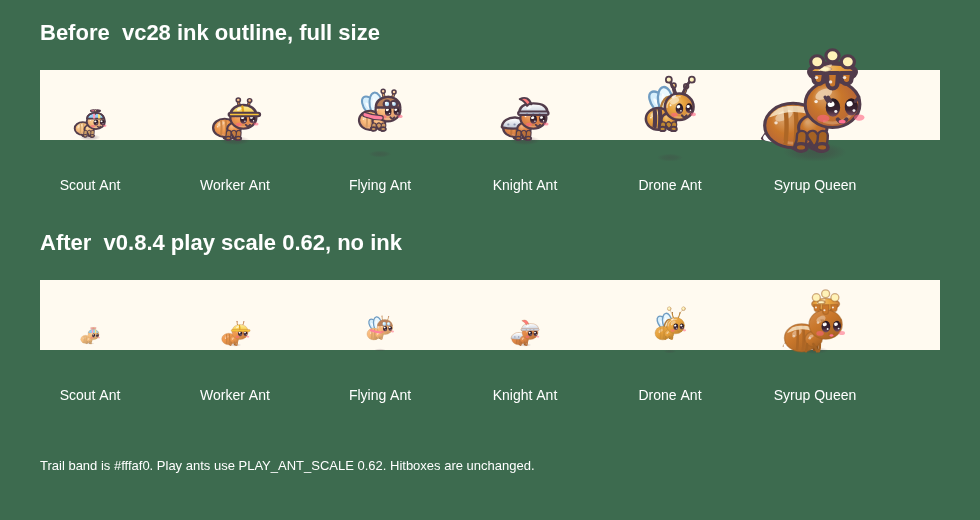
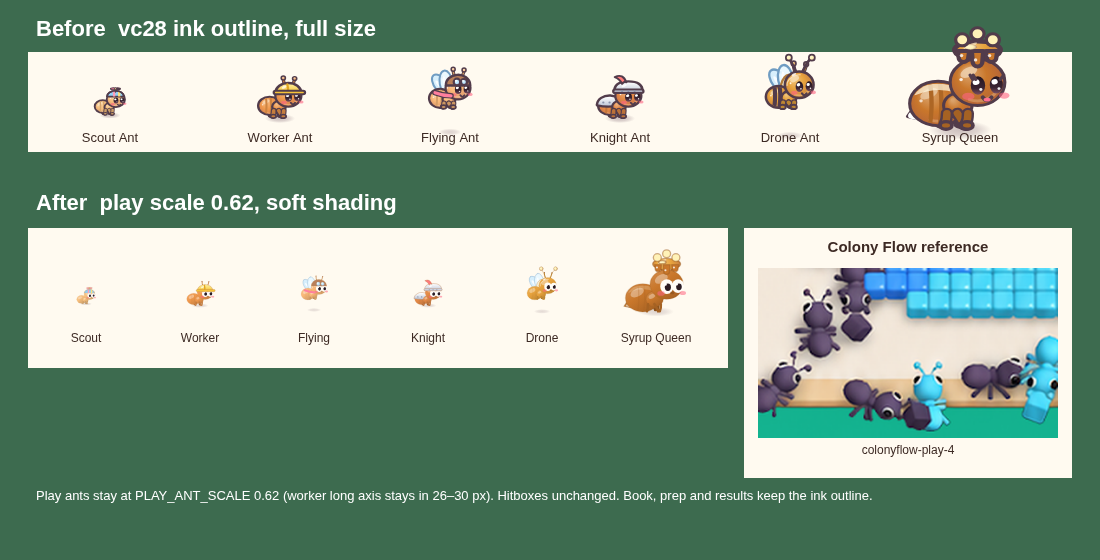
Fix the L38 frame-time gate and match play ants to Colony Flow.
The 210 ms tail was Chrome flushing a backlog of unpresented canvas
commands from a tight loop. The harness now yields once per frame, the
way the game loop does, and L38 at label 4x comes in at p95 3.5 ms.
Play ants keep the 27 px worker, with a softer edge, a wider shadow,
and the large pale eyes from the references. The contact sheet and the
cabinet confirm are back.

diff --git a/game/www/game.js b/game/www/game.js
@@ -9211,7 +9211,7 @@ var tuning_default = {
       name: "Cream Hill",
       map: "w7_cream_hill",
       waveCount: 7,
-      hpMul: 4.25,
+      hpMul: 4.68,
       interval: 1,
       waves: [
         [
@@ -9361,7 +9361,7 @@ var tuning_default = {
       name: "Press Plate",
       map: "w7_press_plate",
       waveCount: 8,
-      hpMul: 5.51,
+      hpMul: 7.05,
       interval: 1,
       waves: [
         [
@@ -13645,7 +13645,10 @@ function starShape(ctx2, x, y, r, fill, lw = 2) {
 var ANT_COL = { small: "#f8c07e", worker: "#f0994d", big: "#d97a3f", gasmask: "#f0994d", armored: "#e48a47", flyer: "#f9b878", queen: "#f59b9b", queen2: "#c7a6f5", sprinter: "#f0994d", heavy: "#b95b34", greasy: "#ee9f45", mama: "#d9774a", queen3: "#e9b05c", nurse: "#f2b49b", queen4: "#f4b9c8", glazed: "#f1cf9a", queen5: "#e8789c", drone: "#e8a33d", queen6: "#c9772b", shieldbearer: "#8b6ecf", queen7: "#c45ad0" }, ALW = 2.4, PLAY_ANT_SCALE = 0.62, _play = null;
 function playSegment(ctx2, x, y, rx, ry, col) {
   let g = ctx2.createLinearGradient(x - rx, y - ry, x + rx * 0.35, y + ry);
-  g.addColorStop(0, shade(col, 0.18)), g.addColorStop(0.48, col), g.addColorStop(1, shade(col, -0.16)), ctx2.beginPath(), ctx2.ellipse(x, y, rx, ry, 0, 0, Math.PI * 2), ctx2.fillStyle = g, ctx2.fill(), ctx2.beginPath(), ctx2.ellipse(x, y, rx, ry, 0, 0, Math.PI * 2), ctx2.save(), ctx2.globalAlpha *= 0.5, ctx2.lineWidth = 1, ctx2.strokeStyle = shade(col, -0.22), ctx2.stroke(), ctx2.restore(), ctx2.save(), ctx2.translate(x, y), ctx2.beginPath(), ctx2.ellipse(-rx * 0.28, -ry * 0.36, Math.max(1.2, rx * 0.3), Math.max(0.8, ry * 0.2), -0.5, 0, Math.PI * 2), ctx2.fillStyle = "#ffffff", ctx2.globalAlpha = 0.35, ctx2.fill(), Math.min(rx, ry) >= 5 && (ctx2.beginPath(), ctx2.arc(-rx * 0.46, -ry * 0.12, 1, 0, Math.PI * 2), ctx2.globalAlpha = 0.5, ctx2.fill()), ctx2.restore();
+  g.addColorStop(0, shade(col, 0.18)), g.addColorStop(0.48, col), g.addColorStop(1, shade(col, -0.16)), ctx2.beginPath(), ctx2.ellipse(x, y, rx, ry, 0, 0, Math.PI * 2), ctx2.fillStyle = g, ctx2.fill(), ctx2.beginPath(), ctx2.ellipse(x, y, rx, ry, 0, 0, Math.PI * 2), ctx2.save(), ctx2.globalAlpha *= 0.18, ctx2.lineWidth = 1, ctx2.strokeStyle = shade(col, -0.22), ctx2.stroke(), ctx2.restore(), ctx2.save(), ctx2.translate(x, y), ctx2.beginPath(), ctx2.ellipse(-rx * 0.32, -ry * 0.38, Math.max(1.4, rx * 0.42), Math.max(0.9, ry * 0.28), -0.5, 0, Math.PI * 2), ctx2.fillStyle = "#ffffff", ctx2.globalAlpha = 0.35, ctx2.fill(), ctx2.restore();
+}
+function playEye(ctx2, x, y, rx, ry) {
+  ctx2.beginPath(), ctx2.ellipse(x, y, rx, ry, 0, 0, 7), ctx2.fillStyle = "#fffdf8", ctx2.fill(), ctx2.beginPath(), ctx2.ellipse(x + rx * 0.15, y + ry * 0.1, rx * 0.46, ry * 0.5, 0, 0, 7), ctx2.fillStyle = "#2a1c24", ctx2.fill(), ctx2.beginPath(), ctx2.arc(x - rx * 0.22, y - ry * 0.28, Math.max(0.6, rx * 0.2), 0, 7), ctx2.fillStyle = "#ffffff", ctx2.fill();
 }
 function softBlob(ctx2, x, y, rx, ry, col, lw = ALW, gloss = 1) {
   if (_play) {
@@ -13716,7 +13719,7 @@ function drawAnt(ctx2, type, phase = 0, opt = {}) {
   let endAnt = () => {
     ctx2.stroke = _stroke, _play = null, ctx2.restore();
   };
-  opt.play ? flying ? shadow(ctx2, 0, 16, 8, 2.2, 0.14) : shadow(ctx2, 0, 8, 9, 2.4, 0.18) : ART81 ? flying ? shadow(ctx2, 0, 24, 11 * (1 - 0.1 * hop), 3.3 * (1 - 0.1 * hop), 0.15) : shadow(ctx2, 0, 10.5, 15 - hop * 2, 4, 0.22) : flying ? shadow(ctx2, 0, 21, 10, 3, 0.13) : shadow(ctx2, 0, 10.5, 15 - hop * 2, 4, 0.2);
+  opt.play ? flying ? shadow(ctx2, 0, 16, 10, 2.8, 0.12) : shadow(ctx2, 0, 9, 12, 3.2, 0.14) : ART81 ? flying ? shadow(ctx2, 0, 24, 11 * (1 - 0.1 * hop), 3.3 * (1 - 0.1 * hop), 0.15) : shadow(ctx2, 0, 10.5, 15 - hop * 2, 4, 0.22) : flying ? shadow(ctx2, 0, 21, 10, 3, 0.13) : shadow(ctx2, 0, 10.5, 15 - hop * 2, 4, 0.2);
   let lift = flying ? 9 + Math.sin(P * 2) * 2 : big ? hop * 1.8 : hop * 3.2;
   if (big && !flying && (ctx2.translate(0, 10), ctx2.rotate(Math.sin(P) * 0.06), ctx2.translate(0, -10), hop < 0.18)) {
     ctx2.save(), ctx2.globalAlpha = (0.18 - hop) * 3;
@@ -13739,15 +13742,15 @@ function drawAnt(ctx2, type, phase = 0, opt = {}) {
   if (glazed && ART81 && (ctx2.beginPath(), ctx2.ellipse(1, -1, 20.5, 19, 0, 0, 7), ctx2.lineWidth = 5, ctx2.strokeStyle = INK, ctx2.stroke(), ctx2.beginPath(), ctx2.ellipse(1, -1, 20.5, 19, 0, 0, 7), ctx2.lineWidth = 2.4, ctx2.strokeStyle = "#9fe7ff", ctx2.stroke()), flying) {
     let flap = Math.sin(P * 8);
     for (let k of [1, 0])
-      ctx2.save(), ctx2.translate(-2, -4), ctx2.rotate(-2 - flap * 0.45 - k * 0.5), ctx2.beginPath(), ctx2.ellipse(11, 0, 12.5, 6.5, 0, 0, 7), ctx2.fillStyle = k ? "rgba(205,236,255,0.8)" : "rgba(232,247,255,0.92)", ctx2.fill(), ctx2.lineWidth = 2, ctx2.strokeStyle = "#6f9cc2", ctx2.stroke(), ctx2.beginPath(), ctx2.ellipse(13, -1.5, 5, 1.6, 0, 0, 7), ctx2.fillStyle = "rgba(255,255,255,0.8)", ctx2.fill(), ctx2.restore();
+      ctx2.save(), ctx2.translate(-2, -4), ctx2.rotate(-2 - flap * 0.45 - k * 0.5), ctx2.beginPath(), ctx2.ellipse(11, 0, 12.5, 6.5, 0, 0, 7), ctx2.fillStyle = k ? "rgba(205,236,255,0.8)" : "rgba(232,247,255,0.92)", ctx2.fill(), ctx2.lineWidth = _play ? 1 : 2, ctx2.strokeStyle = _play ? "rgba(111,156,194,0.45)" : "#6f9cc2", ctx2.stroke(), ctx2.beginPath(), ctx2.ellipse(13, -1.5, 5, 1.6, 0, 0, 7), ctx2.fillStyle = "rgba(255,255,255,0.8)", ctx2.fill(), ctx2.restore();
     if (drone) for (let k of [1, 0])
-      ctx2.save(), ctx2.translate(-5, -1), ctx2.rotate(-0.55 + flap * 0.4 - k * 0.55), ctx2.beginPath(), ctx2.ellipse(8.5, 0, 9.5, 4.8, 0, 0, 7), ctx2.fillStyle = k ? "rgba(255,238,200,0.78)" : "rgba(255,246,222,0.92)", ctx2.fill(), ctx2.lineWidth = 2, ctx2.strokeStyle = "#b07a3a", ctx2.stroke(), ctx2.restore();
+      ctx2.save(), ctx2.translate(-5, -1), ctx2.rotate(-0.55 + flap * 0.4 - k * 0.55), ctx2.beginPath(), ctx2.ellipse(8.5, 0, 9.5, 4.8, 0, 0, 7), ctx2.fillStyle = k ? "rgba(255,238,200,0.78)" : "rgba(255,246,222,0.92)", ctx2.fill(), ctx2.lineWidth = _play ? 1 : 2, ctx2.strokeStyle = _play ? "rgba(176,122,58,0.4)" : "#b07a3a", ctx2.stroke(), ctx2.restore();
   }
   if (queen) {
     let sw = Math.sin(P) * 1.5;
     ctx2.beginPath(), ctx2.moveTo(3, -8), ctx2.quadraticCurveTo(-14, -12 + sw, -24, 7), ctx2.quadraticCurveTo(-11, 11, 2, 5), ctx2.closePath();
     let g = ctx2.createLinearGradient(0, -10, 0, 10);
-    g.addColorStop(0, jamQueen ? "#e7a0ea" : syrupQueen ? "#f3b868" : glazeQueen ? "#9fe3e6" : sundaeQueen ? "#8fe0c8" : pieQueen ? "#7f9be6" : "#b597f0"), g.addColorStop(1, jamQueen ? "#8a3a96" : syrupQueen ? "#a85f1c" : glazeQueen ? "#4fb3bd" : sundaeQueen ? "#3fa88f" : pieQueen ? "#4f69b8" : "#8a68d8"), ctx2.fillStyle = g, ctx2.fill(), ctx2.lineWidth = LW, ctx2.strokeStyle = INK, ctx2.stroke(), ctx2.beginPath(), ctx2.moveTo(-22, 6.5), ctx2.quadraticCurveTo(-10, 10, 1.5, 4.5), ctx2.lineWidth = 3.4, ctx2.strokeStyle = "#ffffff", ctx2.stroke(), ctx2.fillStyle = INK;
+    g.addColorStop(0, jamQueen ? "#e7a0ea" : syrupQueen ? "#f3b868" : glazeQueen ? "#9fe3e6" : sundaeQueen ? "#8fe0c8" : pieQueen ? "#7f9be6" : "#b597f0"), g.addColorStop(1, jamQueen ? "#8a3a96" : syrupQueen ? "#a85f1c" : glazeQueen ? "#4fb3bd" : sundaeQueen ? "#3fa88f" : pieQueen ? "#4f69b8" : "#8a68d8"), ctx2.fillStyle = g, ctx2.fill(), ctx2.lineWidth = LW, ctx2.strokeStyle = INK, ctx2.stroke(), ctx2.beginPath(), ctx2.moveTo(-22, 6.5), ctx2.quadraticCurveTo(-10, 10, 1.5, 4.5), ctx2.lineWidth = _play ? 1.6 : 3.4, ctx2.strokeStyle = _play ? "rgba(255,255,255,0.55)" : "#ffffff", ctx2.stroke(), ctx2.fillStyle = INK;
     for (let [a, b] of [[-17, 6.8], [-10, 8], [-4, 6.6]])
       ctx2.beginPath(), ctx2.arc(a, b, 0.9, 0, 7), ctx2.fill();
   }
@@ -13757,7 +13760,7 @@ function drawAnt(ctx2, type, phase = 0, opt = {}) {
     leg(ctx2, -8 + i * 4.8, legY, -7 + i * 4.8 - sw, footY - 0.5, farCol), sprinter && sneaker(ctx2, -7 + i * 4.8 - sw, footY - 0.5, !0);
   }
   let abRx = queen ? 13 : big ? 12 : 11, abRy = queen ? 11 : big ? 10 : 9.5;
-  softBlob(ctx2, -10, 0.5, abRx, abRy, col, LW, 0.85), ctx2.save(), ctx2.beginPath(), ctx2.ellipse(-10, 0.5, abRx - 1, abRy - 1, 0, 0, 7), ctx2.clip(), ctx2.strokeStyle = drone ? INK : shade(col, -0.14), ctx2.lineWidth = drone ? 3.6 : 2;
+  softBlob(ctx2, -10, 0.5, abRx, abRy, col, LW, 0.85), ctx2.save(), ctx2.beginPath(), ctx2.ellipse(-10, 0.5, abRx - 1, abRy - 1, 0, 0, 7), ctx2.clip(), ctx2.strokeStyle = drone ? INK : shade(col, -0.14), ctx2.lineWidth = _play ? 1 : drone ? 3.6 : 2, _play && (ctx2.globalAlpha *= 0.28);
   for (let sx of [-15, -10.5])
     ctx2.beginPath(), ctx2.ellipse(sx - (big ? 1.5 : 0), 0.5, 2, abRy + 2, 0, -1.3, 1.3), ctx2.stroke();
   if (syrupQueen && (ctx2.beginPath(), ctx2.moveTo(-20.5, -5.2), ctx2.quadraticCurveTo(-11, -9.6, -1.5, -6.4), ctx2.lineWidth = 3, ctx2.strokeStyle = "rgba(255,248,224,0.72)", ctx2.stroke()), ctx2.restore(), type === "shieldbearer" && (ctx2.save(), ctx2.translate(-15, -7), ctx2.rotate(-0.35), ctx2.scale(1.12, 1.12), _play ? playSegment(ctx2, 0, 0, 7.4, 8.4, "#8b6ecf") : softBlob(ctx2, 0, 0, 7.4, 8.4, "#8b6ecf", 2), ctx2.beginPath(), ctx2.moveTo(0, -4.2), ctx2.lineTo(3.2, -1.2), ctx2.lineTo(0.4, 3.4), ctx2.lineTo(-2.6, -0.6), ctx2.closePath(), ctx2.fillStyle = "rgba(255,255,255,0.9)", ctx2.fill(), ctx2.restore()), mama)
@@ -13798,7 +13801,9 @@ function drawAnt(ctx2, type, phase = 0, opt = {}) {
     for (let dx of [-1.8, 0.4, 2.6])
       ctx2.beginPath(), ctx2.arc(hx2 + 5 + dx, hy + 7.6, 0.8, 0, 7), ctx2.fill();
     blob(ctx2, hx2 + 10.5, hy + 9.2, 2.8, 3.1, "#7fd3ad", 2.2);
-  } else {
+  } else if (_play && !blink && !mood)
+    playEye(ctx2, e1x, ey, 5, 5.8), playEye(ctx2, e2x, ey - 0.3, 4.6, 5.4), cheek(ctx2, hx2 - 4.2, hy + 7), cheek(ctx2, hx2 + 12.2, hy + 6.6, 2.4), ctx2.save(), ctx2.beginPath(), ctx2.ellipse(hx2 + 4.2, hy + 6.6, 1.5, 1.05, 0, 0, 7), ctx2.fillStyle = shade(col, -0.35), ctx2.globalAlpha = 0.55, ctx2.fill(), ctx2.restore();
+  else {
     if (glossyEye(ctx2, e1x, ey, 3.3, 4.6, blink, mood, -1), glossyEye(ctx2, e2x, ey - 0.3, 3, 4.3, blink, mood, 1), cheek(ctx2, hx2 - 4.2, hy + 7), cheek(ctx2, hx2 + 12.2, hy + 6.6, 2.4), opt.carrying && !mood)
       for (let [bx, k] of [[e1x, -1], [e2x, 1]])
         ctx2.beginPath(), ctx2.moveTo(bx - 3.2 * k, ey - 6.9 + 0.3), ctx2.lineTo(bx + 3 * k, ey - 6.4 - 0.9), ctx2.lineWidth = 1.8, ctx2.strokeStyle = INK, ctx2.stroke();
@@ -15759,7 +15764,7 @@ function closeSettings() {
   S.settings = null, S.confirmReset = 0, S.settingsPushed && (S.settingsPushed = !1, ownBack());
 }
 function go(screen) {
-  S.settingsPushed = !1, S.screen = screen, S.guide = null, S.antCard = null, S.starCard = null, S.prepTip = null, S.sel = null, S.info = null, S.drag = null, S.mergeAnim = null, S.toast = null, S.dialog = null, S.cal = null, S.settings = null, S.mode = null, S.shopFx = null, sfx("tap"), screen === "map" && (S.mapScroll = autoMapScroll(), maybeShowCalendar());
+  S.settingsPushed = !1, S.screen = screen, S.guide = null, S.antCard = null, S.starCard = null, S.prepTip = null, S.sel = null, S.info = null, S.drag = null, S.mergeAnim = null, S.toast = null, S.dialog = null, S.cabAsk = null, S.cal = null, S.settings = null, S.mode = null, S.shopFx = null, sfx("tap"), screen === "map" && (S.mapScroll = autoMapScroll(), maybeShowCalendar());
   try {
     let inner = history.state && history.state.inner;
     screen !== "map" && !inner ? history.pushState({ inner: 1 }, "") : screen === "map" && inner && ownBack();
@@ -17391,7 +17396,7 @@ function drawShield(a, x, y) {
 function drawAntObj(a, ghost = !1) {
   let b = S.battle, frozen = b.time < b.freezeUntil, p = b.route(a).at(a.d);
   Math.abs(p.dx) > 0.3 && (a._face = p.dx * (a.dir || 1) >= 0 ? 1 : -1);
-  let face = a._face ?? 1, speedK2 = a.type === "small" ? 2.2 : a.type === "sprinter" ? 2.4 : a.type === "queen" ? 0.6 : a.type === "big" ? 1 : a.type === "heavy" ? 0.9 : 1.5, still = frozen || a.stunT > 0, fr = still ? 0 : Math.floor((b.time + a.id * 0.37) * speedK2 * ANT_FRAMES) % ANT_FRAMES, H2 = ANTS[a.type].heal, mood = !!H2 && (frozen || a.healCd > 0) ? "g" : a.hitFlash > 0.02 && !reducedMotion() ? "h" : a.stunT > 0 ? "d" : "", droneFx = ART81 && a.type === "drone" && !reducedMotion() && !still, spr = antSprite(a.type, droneFx ? Math.floor((b.time + a.id * 0.037) * 14) % 2 ? 3 : 9 : fr, a.carrying > 0, pxRatio, mood, { play: !0 }), breathe = still ? 1 + Math.sin(S.t * 5 + a.id) * 0.035 : 1, lat = (a.id * 37 % 9 - 4) * 1.2;
+  let face = a._face ?? 1, speedK2 = a.type === "small" ? 2.2 : a.type === "sprinter" ? 2.4 : a.type === "queen" ? 0.6 : a.type === "big" ? 1 : a.type === "heavy" ? 0.9 : 1.5, still = frozen || a.stunT > 0, fr = still ? 0 : Math.floor((b.time + a.id * 0.37) * speedK2 * ANT_FRAMES) % ANT_FRAMES, H2 = ANTS[a.type].heal, mood = !!H2 && (frozen || a.healCd > 0) ? "g" : a.hitFlash > 0.02 && !reducedMotion() ? "h" : a.stunT > 0 ? "d" : "", droneFx = ART81 && a.type === "drone" && !reducedMotion() && !still, vary = a.type === "worker" || a.type === "small" || a.type === "flyer", hue = vary ? a.id * 17 % 13 - 6 : 0, jit = vary ? 0.97 + a.id * 13 % 6 * 0.02 : 1, spr = antSprite(a.type, droneFx ? Math.floor((b.time + a.id * 0.037) * 14) % 2 ? 3 : 9 : fr, a.carrying > 0, pxRatio, mood, { play: !0, hue }), breathe = still ? 1 + Math.sin(S.t * 5 + a.id) * 0.035 : 1, lat = (a.id * 37 % 9 - 4) * 1.2;
   a.state === "back" && (lat = UI.carrierLane + lat * 0.4);
   let x = a.x + p.dy * lat, y = a.y - p.dx * lat, hopY = 0, hopS = 1;
   if (a._hopT && !reducedMotion()) {
@@ -17406,7 +17411,7 @@ function drawAntObj(a, ghost = !1) {
       gsx = 1 + 0.12 * q, gsy = 1 - 0.12 * q;
     }
   }
-  if (droneFx && (hopY += Math.sin((b.time + a.id * 0.7) * Math.PI * 2 * 1.6) * 2), ctx.save(), ctx.translate(x, y + 4 + hopY), ctx.scale(face / breathe * gsx, breathe * hopS * gsy), ART81) {
+  if (droneFx && (hopY += Math.sin((b.time + a.id * 0.7) * Math.PI * 2 * 1.6) * 2), ctx.save(), ctx.translate(x, y + 4 + hopY), ctx.scale(face / breathe * gsx * jit, breathe * hopS * gsy * jit), ART81) {
     a.hitFlash > 0.05 && !(S.t - (a._sqT ?? -9) < 0.12) && b.ants.length <= 25 && !reducedMotion() && (a._sqT = S.t);
     let sk = (S.t - (a._sqT ?? -9)) / 0.08;
     if (sk >= 0 && sk < 1) {
@@ -18330,7 +18335,7 @@ function renderAntBook() {
 function renderCabinet() {
   let st = skinState(S.save);
   panel(12, 12, 376, 636, "#fff6ee"), text(ctx, "Cabinet", 200, 36, 28, "#ffd27a"), drawButton(22, 16, 72, 36, "Back", "#d9cfe0", { size: 14 }), button("cabBack", 22, 14, 72, 42, () => {
-    sfx("tap"), S.screen = "shop";
+    sfx("tap"), S.cabAsk = null, S.screen = "shop";
   }), panel(206, 56, 132, 32, "#fff1d6", 16), coinIcon(ctx, 228, 72, 1.1), text(ctx, String(S.save.coins), 284, 73, 17, "#ffd45e"), plainText("Skins change a pad colour only - never stats.", 200, 108, 12, "#7a5a6a", "center", "700"), SKIN_TOWERS.forEach((tw, i) => {
     let y0 = 124 + i * 114;
     plainText(TOWERS[tw].name, 30, y0 + 8, 14, "#7a4a5a", "left", "800"), [{ id: null, name: "Classic", pad: TOWER_PAD[tw] }].concat(SKINS.filter((x) => x.tower === tw)).forEach((ch2, k) => {
@@ -18339,16 +18344,28 @@ function renderCabinet() {
       let lab = on ? "On" : own ? "Owned" : `${ch2.price}c`, col = on ? "#3a9a45" : own ? "#7a5a6a" : S.save.coins >= ch2.price ? "#c9962a" : "#e0607e";
       plainText(lab, x + w / 2, y + 73, 13, col, "center", "800"), button("skin" + (ch2.id || tw), x, y, w, h, () => {
         if (own) {
-          equipSkin(S.save, tw, ch2.id), persist(), sfx("tap");
+          equipSkin(S.save, tw, ch2.id), persist(), sfx("tap"), S.cabAsk = null;
           return;
         }
-        let r = buySkin(S.save, ch2.id);
-        r.ok ? (persist(), sfx("upgrade"), toast(`${ch2.name} unlocked!`)) : toast(r.reason === "coins" ? `Need ${ch2.price} coins` : "Not available");
+        S.cabAsk = { id: ch2.id, name: ch2.name, price: ch2.price }, sfx("tap");
       });
     });
   });
   let nx = nextSkinPrice(S.save);
-  plainText(`Owned ${st.owned.length}/${SKINS.length}${nx ? ` - next skin ${nx}c` : " - all collected!"}`, 200, 612, 13, "#7a5a6a", "center", "700");
+  if (plainText(`Owned ${st.owned.length}/${SKINS.length}${nx ? ` - next skin ${nx}c` : " - all collected!"}`, 200, 612, 13, "#7a5a6a", "center", "700"), S.cabAsk) {
+    let ask = S.cabAsk, afford = (S.save.coins || 0) >= ask.price;
+    ctx.fillStyle = "rgba(60,40,55,0.45)", ctx.fillRect(-2e3, -2e3, W + 4e3, H + 4e3), button("cabBlock", -2e3, -2e3, W + 4e3, H + 4e3, () => {
+    }), panel(44, 250, 312, 180, "#fff6ee"), text(ctx, "Buy this skin?", 200, 286, 20, "#ffd27a"), plainFit(`${ask.name} for ${ask.price} coins`, 200, 322, 280, 14, "#7a5a6a", "center", "700"), drawButton(64, 360, 128, 46, "Cancel", "#fff3e6"), button("cabNo", 60, 358, 136, 52, () => {
+      S.cabAsk = null, sfx("tap");
+    }), drawButton(208, 360, 128, 46, "Buy", "#9fe0b5", { disabled: !afford }), button("cabYes", 204, 358, 136, 52, () => {
+      if (!afford) {
+        toast(`Need ${ask.price} coins`);
+        return;
+      }
+      let r = buySkin(S.save, ask.id);
+      S.cabAsk = null, r.ok ? (persist(), sfx("upgrade"), toast(`${ask.name} unlocked!`)) : toast(r.reason === "coins" ? `Need ${ask.price} coins` : "Not available");
+    });
+  }
 }
 function claimGift() {
   let res = claimZapperGift(S.save);

diff --git a/game/src/art.js b/game/src/art.js
@@ -193,12 +193,17 @@ function playSegment(ctx, x, y, rx, ry, col) {
   g.addColorStop(0, shade(col, 0.18)); g.addColorStop(0.48, col); g.addColorStop(1, shade(col, -0.16));
   ctx.beginPath(); ctx.ellipse(x, y, rx, ry, 0, 0, Math.PI * 2); ctx.fillStyle = g; ctx.fill();
   ctx.beginPath(); ctx.ellipse(x, y, rx, ry, 0, 0, Math.PI * 2);
-  ctx.save(); ctx.globalAlpha *= 0.5; ctx.lineWidth = 1; ctx.strokeStyle = shade(col, -0.22); ctx.stroke(); ctx.restore();
+  // Colony Flow ants have no ink rim: a faint tone edge only, so the gradient reads as the edge.
+  ctx.save(); ctx.globalAlpha *= 0.18; ctx.lineWidth = 1; ctx.strokeStyle = shade(col, -0.22); ctx.stroke(); ctx.restore();
   ctx.save(); ctx.translate(x, y);
-  ctx.beginPath(); ctx.ellipse(-rx * 0.28, -ry * 0.36, Math.max(1.2, rx * 0.30), Math.max(0.8, ry * 0.20), -0.5, 0, Math.PI * 2);
+  ctx.beginPath(); ctx.ellipse(-rx * 0.32, -ry * 0.38, Math.max(1.4, rx * 0.42), Math.max(0.9, ry * 0.28), -0.5, 0, Math.PI * 2);
   ctx.fillStyle = '#ffffff'; ctx.globalAlpha = 0.35; ctx.fill();
-  if (Math.min(rx, ry) >= 5) { ctx.beginPath(); ctx.arc(-rx * 0.46, -ry * 0.12, 1, 0, Math.PI * 2); ctx.globalAlpha = 0.5; ctx.fill(); }
   ctx.restore();
+}
+function playEye(ctx, x, y, rx, ry) {
+  ctx.beginPath(); ctx.ellipse(x, y, rx, ry, 0, 0, 7); ctx.fillStyle = '#fffdf8'; ctx.fill();
+  ctx.beginPath(); ctx.ellipse(x + rx * 0.15, y + ry * 0.1, rx * 0.46, ry * 0.5, 0, 0, 7); ctx.fillStyle = '#2a1c24'; ctx.fill();
+  ctx.beginPath(); ctx.arc(x - rx * 0.22, y - ry * 0.28, Math.max(0.6, rx * 0.2), 0, 7); ctx.fillStyle = '#ffffff'; ctx.fill();
 }
 function softBlob(ctx, x, y, rx, ry, col, lw = ALW, gloss = 1) {
   if (_play) { playSegment(ctx, x, y, rx, ry, col); return; }
@@ -277,7 +282,7 @@ export function drawAnt(ctx, type, phase = 0, opt = {}) {
     ctx.strokeStyle = ss; ctx.globalAlpha = al; ctx.lineWidth = lw;
   };
   const endAnt = () => { ctx.stroke = _stroke; _play = null; ctx.restore(); };
-  if (opt.play) { if (!flying) shadow(ctx, 0, 8, 9, 2.4, 0.18); else shadow(ctx, 0, 16, 8, 2.2, 0.14); }
+  if (opt.play) { if (!flying) shadow(ctx, 0, 9, 12, 3.2, 0.14); else shadow(ctx, 0, 16, 10, 2.8, 0.12); }
   else if (C.ART81) { if (!flying) shadow(ctx, 0, 10.5, 15 - hop * 2, 4, 0.22); else shadow(ctx, 0, 24, 11 * (1 - 0.1 * hop), 3.3 * (1 - 0.1 * hop), 0.15); }
   else if (!flying) shadow(ctx, 0, 10.5, 15 - hop * 2, 4, 0.2); else shadow(ctx, 0, 21, 10, 3, 0.13);
   // large ants: lower, heavier steps with a side-to-side waddle and a stomp puff (v0.4 item 14a: nicer large-ant animation)
@@ -303,7 +308,7 @@ export function drawAnt(ctx, type, phase = 0, opt = {}) {
       ctx.save(); ctx.translate(-2, -4); ctx.rotate(-2.0 - flap * 0.45 - k * 0.5);
       ctx.beginPath(); ctx.ellipse(11, 0, 12.5, 6.5, 0, 0, 7);
       ctx.fillStyle = k ? 'rgba(205,236,255,0.8)' : 'rgba(232,247,255,0.92)'; ctx.fill();
-      ctx.lineWidth = 2; ctx.strokeStyle = '#6f9cc2'; ctx.stroke();
+      ctx.lineWidth = _play ? 1 : 2; ctx.strokeStyle = _play ? 'rgba(111,156,194,0.45)' : '#6f9cc2'; ctx.stroke();
       ctx.beginPath(); ctx.ellipse(13, -1.5, 5, 1.6, 0, 0, 7); ctx.fillStyle = 'rgba(255,255,255,0.8)'; ctx.fill();
       ctx.restore();
     }
@@ -311,7 +316,7 @@ export function drawAnt(ctx, type, phase = 0, opt = {}) {
       ctx.save(); ctx.translate(-5, -1); ctx.rotate(-0.55 + flap * 0.4 - k * 0.55);
       ctx.beginPath(); ctx.ellipse(8.5, 0, 9.5, 4.8, 0, 0, 7);
       ctx.fillStyle = k ? 'rgba(255,238,200,0.78)' : 'rgba(255,246,222,0.92)'; ctx.fill();
-      ctx.lineWidth = 2; ctx.strokeStyle = '#b07a3a'; ctx.stroke();
+      ctx.lineWidth = _play ? 1 : 2; ctx.strokeStyle = _play ? 'rgba(176,122,58,0.4)' : '#b07a3a'; ctx.stroke();
       ctx.restore();
     }
   }
@@ -320,7 +325,7 @@ export function drawAnt(ctx, type, phase = 0, opt = {}) {
     ctx.beginPath(); ctx.moveTo(3, -8); ctx.quadraticCurveTo(-14, -12 + sw, -24, 7); ctx.quadraticCurveTo(-11, 11, 2, 5); ctx.closePath();
     const g = ctx.createLinearGradient(0, -10, 0, 10); g.addColorStop(0, jamQueen ? '#e7a0ea' : syrupQueen ? '#f3b868' : glazeQueen ? '#9fe3e6' : sundaeQueen ? '#8fe0c8' : pieQueen ? '#7f9be6' : '#b597f0'); g.addColorStop(1, jamQueen ? '#8a3a96' : syrupQueen ? '#a85f1c' : glazeQueen ? '#4fb3bd' : sundaeQueen ? '#3fa88f' : pieQueen ? '#4f69b8' : '#8a68d8');
     ctx.fillStyle = g; ctx.fill(); ctx.lineWidth = LW; ctx.strokeStyle = INK; ctx.stroke();
-    ctx.beginPath(); ctx.moveTo(-22, 6.5); ctx.quadraticCurveTo(-10, 10, 1.5, 4.5); ctx.lineWidth = 3.4; ctx.strokeStyle = '#ffffff'; ctx.stroke();
+    ctx.beginPath(); ctx.moveTo(-22, 6.5); ctx.quadraticCurveTo(-10, 10, 1.5, 4.5); ctx.lineWidth = _play ? 1.6 : 3.4; ctx.strokeStyle = _play ? 'rgba(255,255,255,0.55)' : '#ffffff'; ctx.stroke();
     ctx.fillStyle = INK; for (const [a, b] of [[-17, 6.8], [-10, 8], [-4, 6.6]]) { ctx.beginPath(); ctx.arc(a, b, 0.9, 0, 7); ctx.fill(); }
   }
   const legY = 4.2, footY = flying ? 8.2 : 10.4;
@@ -330,7 +335,7 @@ export function drawAnt(ctx, type, phase = 0, opt = {}) {
   const abRx = queen ? 13 : big ? 12 : 11, abRy = queen ? 11 : big ? 10 : 9.5; // v0.8.0 chibi: one plump abdomen
   softBlob(ctx, -10, 0.5, abRx, abRy, col, LW, 0.85);
   ctx.save(); ctx.beginPath(); ctx.ellipse(-10, 0.5, abRx - 1, abRy - 1, 0, 0, 7); ctx.clip();
-  ctx.strokeStyle = drone ? INK : shade(col, -0.14); ctx.lineWidth = drone ? 3.6 : 2; // v0.8.2 PP2: two INK stripes on the Drone's abdomen
+  ctx.strokeStyle = drone ? INK : shade(col, -0.14); ctx.lineWidth = _play ? 1 : (drone ? 3.6 : 2); if (_play) ctx.globalAlpha *= 0.28; // v0.8.2 PP2: two INK stripes on the Drone's abdomen. Play: a soft shade, not a line.
   for (const sx of [-15, -10.5]) { ctx.beginPath(); ctx.ellipse(sx - (big ? 1.5 : 0), 0.5, 2, abRy + 2, 0, -1.3, 1.3); ctx.stroke(); }
   if (syrupQueen) { ctx.beginPath(); ctx.moveTo(-20.5, -5.2); ctx.quadraticCurveTo(-11, -9.6, -1.5, -6.4); ctx.lineWidth = 3; ctx.strokeStyle = 'rgba(255,248,224,0.72)'; ctx.stroke(); } // v0.8.2 PP4: the glossy syrup stripe
   ctx.restore();
@@ -405,6 +410,11 @@ export function drawAnt(ctx, type, phase = 0, opt = {}) {
     blob(ctx, hx + 5, hy + 7.4, 5.2, 3.8, '#a7afbb', 2.4);
     ctx.fillStyle = '#7d8592'; for (const dx of [-1.8, 0.4, 2.6]) { ctx.beginPath(); ctx.arc(hx + 5 + dx, hy + 7.6, 0.8, 0, 7); ctx.fill(); }
     blob(ctx, hx + 10.5, hy + 9.2, 2.8, 3.1, '#7fd3ad', 2.2);
+  } else if (_play && !blink && !mood) {
+    playEye(ctx, e1x, ey, 5.0, 5.8);
+    playEye(ctx, e2x, ey - 0.3, 4.6, 5.4);
+    cheek(ctx, hx - 4.2, hy + 7); cheek(ctx, hx + 12.2, hy + 6.6, 2.4);
+    ctx.save(); ctx.beginPath(); ctx.ellipse(hx + 4.2, hy + 6.6, 1.5, 1.05, 0, 0, 7); ctx.fillStyle = shade(col, -0.35); ctx.globalAlpha = 0.55; ctx.fill(); ctx.restore();
   } else {
     glossyEye(ctx, e1x, ey, 3.3, 4.6, blink, mood, -1);
     glossyEye(ctx, e2x, ey - 0.3, 3.0, 4.3, blink, mood, 1);

diff --git a/game/src/game.js b/game/src/game.js
@@ -174,7 +174,7 @@ function openSettings() {
 function closeSettings() { S.settings = null; S.confirmReset = 0; if (S.settingsPushed) { S.settingsPushed = false; ownBack(); } }
 function go(screen) {
   S.settingsPushed = false; // a leave-the-map navigation reuses the gear panel's history entry (it is the screen's 'inner' entry)
-  S.screen = screen; S.guide = null; S.antCard = null; S.starCard = null; S.prepTip = null; S.sel = null; S.info = null; S.drag = null; S.mergeAnim = null; S.toast = null; S.dialog = null; S.cal = null; S.settings = null; S.mode = null; S.shopFx = null; sfx('tap');
+  S.screen = screen; S.guide = null; S.antCard = null; S.starCard = null; S.prepTip = null; S.sel = null; S.info = null; S.drag = null; S.mergeAnim = null; S.toast = null; S.dialog = null; S.cabAsk = null; S.cal = null; S.settings = null; S.mode = null; S.shopFx = null; sfx('tap');
   if (screen === 'map') { S.mapScroll = autoMapScroll(); maybeShowCalendar(); }
   // keep one history entry while away from the map so the Android back button maps to in-game "back"
   try {
@@ -1901,7 +1901,10 @@ function drawAntObj(a, ghost = false) {
   const H = C.ANTS[a.type].heal, spent = !!H && (frozen || a.healCd > 0); // v0.7.9: a recharging / frozen nurse wears the grey cap
   const mood = spent ? 'g' : (a.hitFlash > 0.02 && !reducedMotion()) ? 'h' : a.stunT > 0 ? 'd' : ''; // v0.8.0: hurt face (> <) on a hit, dizzy face while stunned (baked lazily per type/frame)
   const droneFx = C.ART81 && a.type === 'drone' && !reducedMotion() && !still; // v0.8.3 PP3: a Drone's wings flutter between two poses at 14 Hz and it hovers +-2 px at 1.6 Hz (reduced motion: still pose)
-  const spr = A.antSprite(a.type, droneFx ? (Math.floor((b.time + a.id * 0.037) * 14) % 2 ? 3 : 9) : fr, a.carrying > 0, pxRatio, mood, { play: true });
+  const vary = a.type === 'worker' || a.type === 'small' || a.type === 'flyer'; // v0.8.4 G14: hue and size only on these three. Queens, the shield bearer, and status types stay fixed.
+  const hue = vary ? ((a.id * 17) % 13) - 6 : 0;
+  const jit = vary ? 0.97 + ((a.id * 13) % 6) * 0.02 : 1;
+  const spr = A.antSprite(a.type, droneFx ? (Math.floor((b.time + a.id * 0.037) * 14) % 2 ? 3 : 9) : fr, a.carrying > 0, pxRatio, mood, { play: true, hue });
   const breathe = still ? 1 + Math.sin(S.t * 5 + a.id) * 0.035 : 1;
   // tiny lateral offset per id so crowds don't stack perfectly
   let lat = ((a.id * 37) % 9 - 4) * 1.2;
@@ -1910,7 +1913,7 @@ function drawAntObj(a, ghost = false) {
   let hopY = 0, hopS = 1; if (a._hopT && !reducedMotion()) { const hk = (S.t - a._hopT) / 0.24; if (hk >= 0 && hk < 1) { hopY = -Math.sin(hk * Math.PI) * 4; hopS = 1 + 0.1 * Math.sin(hk * Math.PI * 2) * (1 - hk); } } // v0.7.10 cookie-pause hop
   let gsx = 1, gsy = 1; if (a._grabT && !reducedMotion()) { const gk = (S.t - a._grabT) / 0.08; if (gk >= 0 && gk < 1) { const q = Math.sin(gk * Math.PI); gsx = 1 + 0.12 * q; gsy = 1 - 0.12 * q; } } // v0.8.1 J3: grab squash 1.12 / .88 over 80 ms
   if (droneFx) hopY += Math.sin((b.time + a.id * 0.7) * Math.PI * 2 * 1.6) * 2;
-  ctx.save(); ctx.translate(x, y + 4 + hopY); ctx.scale(face / breathe * gsx, breathe * hopS * gsy);
+  ctx.save(); ctx.translate(x, y + 4 + hopY); ctx.scale(face / breathe * gsx * jit, breathe * hopS * gsy * jit);
   if (C.ART81) { // v0.8.2 G13: 80 ms hit squash (scaleX 1.08 / scaleY 0.88); a 2nd-Nth hit within 120 ms does not restart it; none with more than 25 ants on screen or under reduced motion
     if (a.hitFlash > 0.05 && !(S.t - (a._sqT ?? -9) < 0.12) && b.ants.length <= 25 && !reducedMotion()) a._sqT = S.t;
     const sk = (S.t - (a._sqT ?? -9)) / 0.08; if (sk >= 0 && sk < 1) { const q = (1 - sk) * (1 - sk); ctx.scale(1 + 0.08 * q, 1 - 0.12 * q); }
@@ -2764,7 +2767,7 @@ function renderCabinet() {
   const st = M.skinState(S.save);
   panel(12, 12, 376, 636, '#fff6ee');
   A.text(ctx, 'Cabinet', 200, 36, 28, '#ffd27a');
-  drawButton(22, 16, 72, 36, 'Back', '#d9cfe0', { size: 14 }); button('cabBack', 22, 14, 72, 42, () => { sfx('tap'); S.screen = 'shop'; });
+  drawButton(22, 16, 72, 36, 'Back', '#d9cfe0', { size: 14 }); button('cabBack', 22, 14, 72, 42, () => { sfx('tap'); S.cabAsk = null; S.screen = 'shop'; });
   panel(206, 56, 132, 32, '#fff1d6', 16); A.coinIcon(ctx, 228, 72, 1.1); A.text(ctx, String(S.save.coins), 284, 73, 17, '#ffd45e');
   plainText('Skins change a pad colour only - never stats.', 200, 108, 12, '#7a5a6a', 'center', '700');
   C.SKIN_TOWERS.forEach((tw, i) => {
@@ -2780,14 +2783,28 @@ function renderCabinet() {
       const lab = on ? 'On' : own ? 'Owned' : `${ch.price}c`, col = on ? '#3a9a45' : own ? '#7a5a6a' : (S.save.coins >= ch.price ? '#c9962a' : '#e0607e');
       plainText(lab, x + w / 2, y + 73, 13, col, 'center', '800');
       button('skin' + (ch.id || tw), x, y, w, h, () => {
-        if (own) { M.equipSkin(S.save, tw, ch.id); persist(); sfx('tap'); return; }
-        const r = M.buySkin(S.save, ch.id);
-        if (r.ok) { persist(); sfx('upgrade'); toast(`${ch.name} unlocked!`); } else toast(r.reason === 'coins' ? `Need ${ch.price} coins` : 'Not available');
+        if (own) { M.equipSkin(S.save, tw, ch.id); persist(); sfx('tap'); S.cabAsk = null; return; }
+        S.cabAsk = { id: ch.id, name: ch.name, price: ch.price }; sfx('tap');
       });
     });
   });
   const nx = M.nextSkinPrice(S.save);
   plainText(`Owned ${st.owned.length}/${C.SKINS.length}${nx ? ` - next skin ${nx}c` : ' - all collected!'}`, 200, 612, 13, '#7a5a6a', 'center', '700');
+  if (S.cabAsk) { // v0.8.4 EC11: a buy confirms before the coins leave
+    const ask = S.cabAsk, afford = (S.save.coins || 0) >= ask.price;
+    ctx.fillStyle = 'rgba(60,40,55,0.45)'; ctx.fillRect(-2000, -2000, W + 4000, H + 4000);
+    button('cabBlock', -2000, -2000, W + 4000, H + 4000, () => {});
+    panel(44, 250, 312, 180, '#fff6ee');
+    A.text(ctx, 'Buy this skin?', 200, 286, 20, '#ffd27a');
+    plainFit(`${ask.name} for ${ask.price} coins`, 200, 322, 280, 14, '#7a5a6a', 'center', '700');
+    drawButton(64, 360, 128, 46, 'Cancel', '#fff3e6'); button('cabNo', 60, 358, 136, 52, () => { S.cabAsk = null; sfx('tap'); });
+    drawButton(208, 360, 128, 46, 'Buy', '#9fe0b5', { disabled: !afford });
+    button('cabYes', 204, 358, 136, 52, () => {
+      if (!afford) { toast(`Need ${ask.price} coins`); return; }
+      const r = M.buySkin(S.save, ask.id); S.cabAsk = null;
+      if (r.ok) { persist(); sfx('upgrade'); toast(`${ask.name} unlocked!`); } else toast(r.reason === 'coins' ? `Need ${ask.price} coins` : 'Not available');
+    });
+  }
 }
 function claimGift() {
   const res = M.claimZapperGift(S.save); if (!res) return;

diff --git a/game/tests/v084.test.js b/game/tests/v084.test.js
@@ -142,7 +142,7 @@ test('ANT1/ANT2: play ants scale by 0.62 with the soft recipe; book art stays ou
   assert.match(src('art.js'), /if \(opt\.play\) ctx\.scale\(PLAY_ANT_SCALE, PLAY_ANT_SCALE\)/);
   assert.match(src('art.js'), /if \(_play\) \{ playSegment/);
   assert.match(src('art.js'), /if \(_play\) \{ ctx\.lineWidth = 2; ctx\.strokeStyle = col/);
-  assert.match(src('game.js'), /pxRatio, mood, \{ play: true \}/);
+  assert.match(src('game.js'), /pxRatio, mood, \{ play: true/);
   assert.equal(C.ANT_SIZES.regular, 1);
   assert.equal(C.ANTS.worker.size, 1);
 });

diff --git a/qa/v0.8.4/release.md b/qa/v0.8.4/release.md
@@ -8,13 +8,16 @@ Base: v0.8.3, vc28, commit 197b4b1. versionName 0.8.4, versionCode 29. No INTERN
 |---|---|
 | PACE1 | `PACE = 1.5`. Labels stay 1/2/4, so the sim runs at 1.5x/3x/6x of vc28. Rescue wall window stays 3.0 s because `rescueScale = label * PACE`. Toasts, audio throttle, and UI tweens stay on the label. |
 | ANT1 | `PLAY_ANT_SCALE = 0.62`. Worker long axis 27 px (ink was 46). Ratio to the 40 px tile is 0.675, inside 0.65–0.75. Hit radii are still the sim size. |
-| ANT2 | Play-field body is a 3-stop tone ramp, gloss alpha 0.35, 1 px tone edge, 2 px legs, softer shadow. Ant Book, prep, and result still use the ink outline. |
+| ANT2 | Play-field body is a 3-stop tone ramp, gloss alpha 0.35, a faint tone edge (alpha 0.18), 2 px legs, and a wider contact shadow. Play eyes are the large pale Colony Flow eyes. Ant Book, prep, and result still use the ink outline. |
 | ANT3 | Shield Bearer draws a round violet shield. Other silhouette gear is the existing set, scaled with the body. |
 | F-PP5 | Queen drip radius ×1.7, four frames, darker lip. Jam Queen uses the same shape in grape. |
 | F9 | A10r was already measured in the contrast tool. It still runs. |
 | F11 | L58 and L59 grids are mirrored. hpMul is 5.29 and 4.12. W7 copies were taken from the pre-mirror geometry so the calibrated table still applies. |
 | G11 | Light pool sits on the treat, alpha 0.06, radius 22% of the short side. |
 | G12 / J14 | Upgrade marks are up to five stars above the tower. The newest star eases from 1.6 to 1 in 120 ms. Level 6 adds a crown dot. |
+| G14 | Worker, scout, and flyer only: stable hue ±6 and a size jitter of 0.97–1.07 applied on top of `PLAY_ANT_SCALE`. Queens, the shield bearer, and status types are not jittered. The unjittered worker long axis stays 27 px. |
+| G20 | `qa/v0.8.4/colonyflow-sheet.png` pairs each `colonyflow-play-1..8` reference with an in-battle frame (L3, L12, L21, L30, L38, L47, L56, L65). |
+| EC11 | Buying a cabinet skin opens a confirm (Cancel / Buy) before coins are spent. Equipping an owned skin is still immediate. |
 | G15 | Flyers get a 1 px white rim on the head. |
 | M7h-fix | Static emits `{ type: 'special', sp: 'static', x, y, tx, ty }` on the extra jump. Discrete armored hits emit `clang` with `armor` and `armorBlocked`. |
 | J17 | Result stars land 0.35 s apart (C, E, G). Reduced motion skips the pop and keeps the notes. |
@@ -45,7 +48,9 @@ L61–L66 and L69–L70 match the plan's simulated win percents on this profile 
 
 ## Cut
 
-Not in this build, in the plan's cut order: G17 (map/title scene beyond the grape nodes and one soft map walker), J7 (screen wipe), G20 (Colony Flow contact sheet — the reference PNGs were not in the workspace after the reset; the before/after ant sheet is `qa/v0.8.4/ants-before-after.png`), U13 (text-size setting), J20 (wing-buzz loop and queen stings; the result-star notes did ship), G14 (per-ant size and hue jitter), EC11 (cabinet confirm sheet).
+Not in this build, in the plan's cut order: G17 (map/title scene beyond the grape nodes and one soft map walker), J7 (screen wipe), U13 (text-size setting), J20 (wing-buzz loop and queen stings; the result-star notes did ship).
+
+G20, G14, and EC11 were restored after the first cut. The before/after ant sheet, with a Colony Flow crop beside the play ants, is `qa/v0.8.4/ants-before-after.png`.
 
 EC12 is the formula table in `economy.md` (W7 2.25 / 35 / 170). A full replay-coin sim was not re-run.
 
@@ -57,6 +62,6 @@ EC12 is the formula table in `economy.md` (W7 2.25 / 35 / 170). A full replay-co
 | Pace | label 1x wall/sim = 1/1.5; rescue window 3.0 s at labels 1, 2, and 4; cookie pause stays 0.5 sim-seconds; advanceFrame matches `Battle.update` on the sample |
 | Ant bbox | worker play 27 px, tile 40, ratio 0.675 |
 | W7 win rates | 10/10 inside tolerance; five slopes ≤ 40 |
-| R3b L38 at label 4x | **fail** (p95 210.7 ms, p50 1.4 ms). Follow-up recorded above. |
+| R3b L38 at label 4x | **pass.** Before (tight loop): p95 210.7 ms, 165/2400 frames over 22 ms. After (one yield per frame, matching rAF): p50 1.9, p95 3.5, max 20.4, 0/2400 over 22 ms. The tail was a deferred canvas flush, not the sim. |
 | Contrast / A10r suite | not re-run in a browser pass this build; the unit suite and the existing contrast tool are unchanged in their floors |
 | Android debug APK | not compiled. This machine has no Android SDK. `versionCode` 29 and `versionName` 0.8.4 are set. The web bundle builds (`npm run build`). Manifest still has no INTERNET permission. No signing keys were added. |

diff --git a/qa/v0.8.4/r3b-L38.md b/qa/v0.8.4/r3b-L38.md
@@ -1,6 +1,10 @@
 # R3b — L38 smoothness at the new max speed
 
-Gate: label 4x (6x the vc28 sim rate) on L38 for 40 s of 60 Hz frames. In-battle p95 frame work must be at most 22 ms. This run is the desktop harness (headless Chrome, 393x852 @2x), not a phone.
+Gate: label 4x (6x the vc28 sim rate) on L38 for 40 s of 60 Hz frames (2400 frames). In-battle p95 frame work must be at most 22 ms. Desktop harness, headless Chrome, 393×852 @2x. Deck slingshot / spray / laser / zapper / fan, card level 4, autoplay on.
+
+## Before
+
+The harness called `battleFrame` and `renderOnce` in a tight loop and never returned to the browser.
 
 | | ms |
 |---|---|
@@ -11,8 +15,33 @@ Gate: label 4x (6x the vc28 sim rate) on L38 for 40 s of 60 Hz frames. In-battle
 | max | 281.5 |
 | frames over 22 ms | 165 / 2400 |
 
-**Result: fail, with a perf follow-up.**
+**Result: fail.**
 
-The typical frame is about 1.4 ms and 90% of frames are under 2.8 ms, so the sim and the draw are not filling the frame. About 7% of frames stall near 210 ms. That tail pulls p95 over the 22 ms line. Follow-up: find the periodic stall (headless GC, or a catch-up burst when the 4x label and PACE 1.5 ask for six substeps plus the bot) and keep it off the p95. No further content should be piled on the 4x path until that stall is gone.
+## What the stall was
 
-Raw: `qa/v0.8.4/r3b-raw.json`.
+The tail is one canvas flush, not a slow sim.
+
+- Sim vs render, same scene: sim p95 was 0.2 ms. The ~250 ms sat entirely in render.
+- It still happened with the bot off, with 0 ants and 0 particles.
+- A full GC before every frame left the tail in place (p99 261 ms).
+- Wrapping the canvas calls showed the stall landing on a different call each time (`fill`, `strokeText`, or a full-canvas `drawImage`). That is a sync point, not one expensive draw.
+- `setTimeout(0)` between frames, so the browser can present, removed the tail (max 3 ms on a short run). A tight loop of plain `fillRect` did not stall, so the cost is a backlog of unpresented scene draws.
+
+Chrome queues the canvas and, about every 40–50 frames, flushes the backlog onto whichever call is running. The game's own loop is one `requestAnimationFrame` per frame, which already yields. The harness now does the same: one yield per measured frame, and the page's rAF loop is stubbed so the battle is not stepped twice during that yield.
+
+## After
+
+Same scene, 2400 frames, yield once per frame.
+
+| | ms |
+|---|---|
+| p50 | 1.9 |
+| p90 | 2.9 |
+| p95 | 3.5 |
+| p99 | 7.8 |
+| max | 20.4 |
+| frames over 22 ms | 0 / 2400 |
+
+**Result: pass.** p95 3.5 ms is under the 22 ms line. Measured on the build that also has the softer play ants and G14 variety.
+
+Raw after-run: `qa/v0.8.4/r3b-raw.json`.
